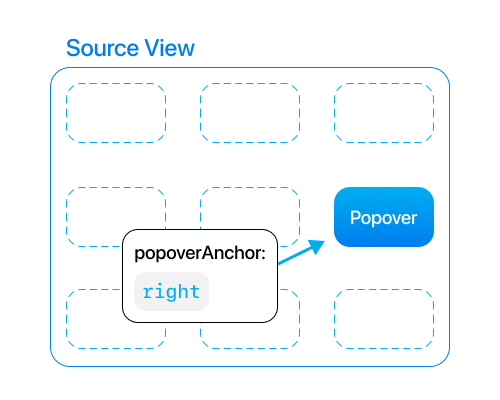
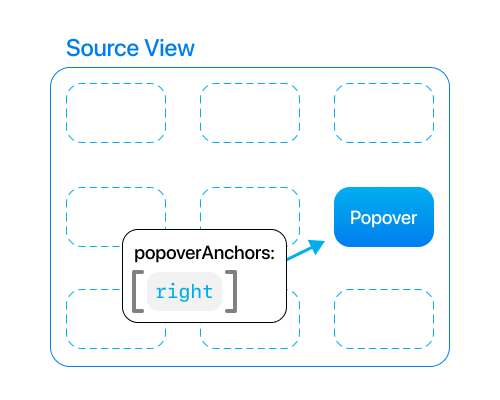
Update readme

diff --git a/Source/Popover.swift b/Source/Popover.swift
@@ -77,7 +77,8 @@ public struct Popover: Identifiable {
          If you're using UIKit, you must provide this. Use `.windowFrame()` to convert to window coordinates.
          
              attributes.sourceFrame = { [weak self] in
-                 self?.button.windowFrame() ?? .zero
+                 let button = self?.button
+                 return button.windowFrame()
              }
          */
         public var sourceFrame: (() -> CGRect) = { .zero }
@@ -138,6 +139,73 @@ public struct Popover: Identifiable {
             self.onTapOutside = onTapOutside
             self.onDismiss = onDismiss
             self.onContextChange = onContextChange
+        }
+        
+        /**
+         The position of the popover.
+         - `absolute` - attach the popover to a source view.
+         - `relative` - place the popover within a container view.
+         */
+        public enum Position {
+            
+            /**
+             Attach the popover to a source view (supplied by the attributes' `sourceFrame` property).
+             - parameter originAnchor: The corner of the source view used as the attaching point.
+             - parameter popoverAnchor: The corner of the popover that attaches to the source view.
+             */
+            case absolute(originAnchor: Anchor, popoverAnchor: Anchor)
+            
+            /**
+             Place the popover within a container view (supplied by the attributes' `sourceFrame` property).
+             - parameter popoverAnchors: The corners of the container view that the popover can be placed. Supply multiple to get a picture-in-picture behavior..
+             */
+            case relative(popoverAnchors: [Anchor])
+            
+            
+            /// The edges and corners of a rectangle.
+            /**
+          
+         topLeft              top              topRight
+                X──────────────X──────────────X
+                |                             |
+                |                             |
+         left   X            center           X   right
+                |                             |
+                |                             |
+                X──────────────X──────────────X
+         bottomLeft          bottom         bottomRight
+             
+              
+             */
+            public enum Anchor {
+                
+                /// The point at the **top-left** of a rectangle.
+                case topLeft
+                
+                /// The point at the **top** of a rectangle.
+                case top
+                
+                /// The point at the **top-right** of a rectangle.
+                case topRight
+                
+                /// The point at the **right** of a rectangle.
+                case right
+                
+                /// The point at the **bottom-right** of a rectangle.
+                case bottomRight
+                
+                /// The point at the **bottom** of a rectangle.
+                case bottom
+                
+                /// The point at the **bottom-left** of a rectangle.
+                case bottomLeft
+                
+                /// The point at the **left** of a rectangle.
+                case left
+                
+                /// The point at the **center** of a rectangle.
+                case center
+            }
         }
         
         /**
@@ -238,73 +306,6 @@ public struct Popover: Identifiable {
                 self.excludedFrames = excludedFrames
                 self.dragMovesPopoverOffScreen = dragMovesPopoverOffScreen
                 self.dragDismissalProximity = dragDismissalProximity
-            }
-            
-            /**
-             The position of the popover.
-             - `absolute` - attach the popover to a source view.
-             - `relative` - place the popover within a container view.
-             */
-            public enum Position {
-                
-                /**
-                 Attach the popover to a source view (supplied by the attributes' `sourceFrame` property).
-                 - parameter originAnchor: The corner of the source view used as the attaching point.
-                 - parameter popoverAnchor: The corner of the popover that attaches to the source view.
-                 */
-                case absolute(originAnchor: Anchor, popoverAnchor: Anchor)
-                
-                /**
-                 Place the popover within a container view (supplied by the attributes' `sourceFrame` property).
-                 - parameter popoverAnchors: The corners of the container view that the popover can be placed. Supply multiple to get a picture-in-picture behavior..
-                 */
-                case relative(popoverAnchors: [Anchor])
-                
-                
-                /// The edges and corners of a rectangle.
-                /**
-              
-             topLeft              top              topRight
-                    X──────────────X──────────────X
-                    |                             |
-                    |                             |
-             left   X            center           X   right
-                    |                             |
-                    |                             |
-                    X──────────────X──────────────X
-             bottomLeft          bottom         bottomRight
-                 
-                  
-                 */
-                public enum Anchor {
-                    
-                    /// The point at the **top-left** of a rectangle.
-                    case topLeft
-                    
-                    /// The point at the **top** of a rectangle.
-                    case top
-                    
-                    /// The point at the **top-right** of a rectangle.
-                    case topRight
-                    
-                    /// The point at the **right** of a rectangle.
-                    case right
-                    
-                    /// The point at the **bottom-right** of a rectangle.
-                    case bottomRight
-                    
-                    /// The point at the **bottom** of a rectangle.
-                    case bottom
-                    
-                    /// The point at the **bottom-left** of a rectangle.
-                    case bottomLeft
-                    
-                    /// The point at the **left** of a rectangle.
-                    case left
-                    
-                    /// The point at the **center** of a rectangle.
-                    case center
-                }
             }
             
             /**

diff --git a/README.md b/README.md
@@ -194,7 +194,57 @@ struct PopoverView: View {
 ![Button "Present popover!" with a popover underneath.](GitHub/Assets/UsagePopover.png)
 
 ## Customization
-Customize popovers through the `Attributes` struct.
+Customize popovers through the `Attributes` struct. This is completely optional, except you must provide the Source Frame if using UIKit.
+
+<table>
+<tr>
+<td>
+<strong>
+SwiftUI</strong>
+</td>
+<td>
+<strong>
+UIKit
+</strong>
+</td>
+</tr>
+  
+<tr>
+<td>
+<br>
+
+```
+.popover(
+    present: $present,
+    attributes: { /// here!
+        $0.position = .absolute(
+            originAnchor: .bottom,
+            popoverAnchor: .topLeft
+        )
+    }
+) {
+    Text("Hi, I'm a popover.")
+}
+```
+</td>
+<td>
+<br>
+
+```
+var popover = Popover { Text("Hi, I'm a popover.") }
+popover.attributes.position = .absolute( /// here!
+    originAnchor: .bottom,
+    popoverAnchor: .topLeft
+)
+popover.attributes.sourceFrame = { [weak self] in
+    let button = self?.button
+    return button.windowFrame()
+}
+Popovers.present(popover)
+```
+</td>
+</tr>
+</table>
 
 ### Position • `enum`
 The popover's position can either be `.absolute` (attached to a view) or `.relative` (picture-in-picture). The enum's associated value additionally configures which sides and corners are used.
@@ -206,6 +256,48 @@ The popover's position can either be `.absolute` (attached to a view) or `.relat
 Anchor Reference | `.absolute(originAnchor: .bottom, popoverAnchor: .topLeft)` | `.relative(popoverAnchors: [.right])`
 --- | --- | ---
 ![](GitHub/Assets/Anchors.png) | ![](GitHub/Assets/Absolute.png) | ![](GitHub/Assets/Relative.png)
+
+### Source Frame • `(() -> CGRect)`
+This is the frame that the popover attaches to or is placed within, depending on the position. This must be in global window coordinates.
+
+
+
+<table>
+<tr>
+<td>
+<strong>
+SwiftUI</strong>
+</td>
+<td>
+<strong>
+UIKit
+</strong>
+</td>
+</tr>
+  
+<tr>
+<td>
+<br>
+
+```
+attributes.sourceFrame = { [weak self] in
+    let button = self?.button
+    return button.windowFrame()
+}
+```
+</td>
+<td>
+<br>
+
+```
+attributes.sourceFrame = { [weak self] in
+    let button = self?.button
+    return button.windowFrame()
+}
+```
+</td>
+</tr>
+</table>
 
 ## License
 Popovers is made by [aheze](https://github.com/aheze). Use it however you want.
